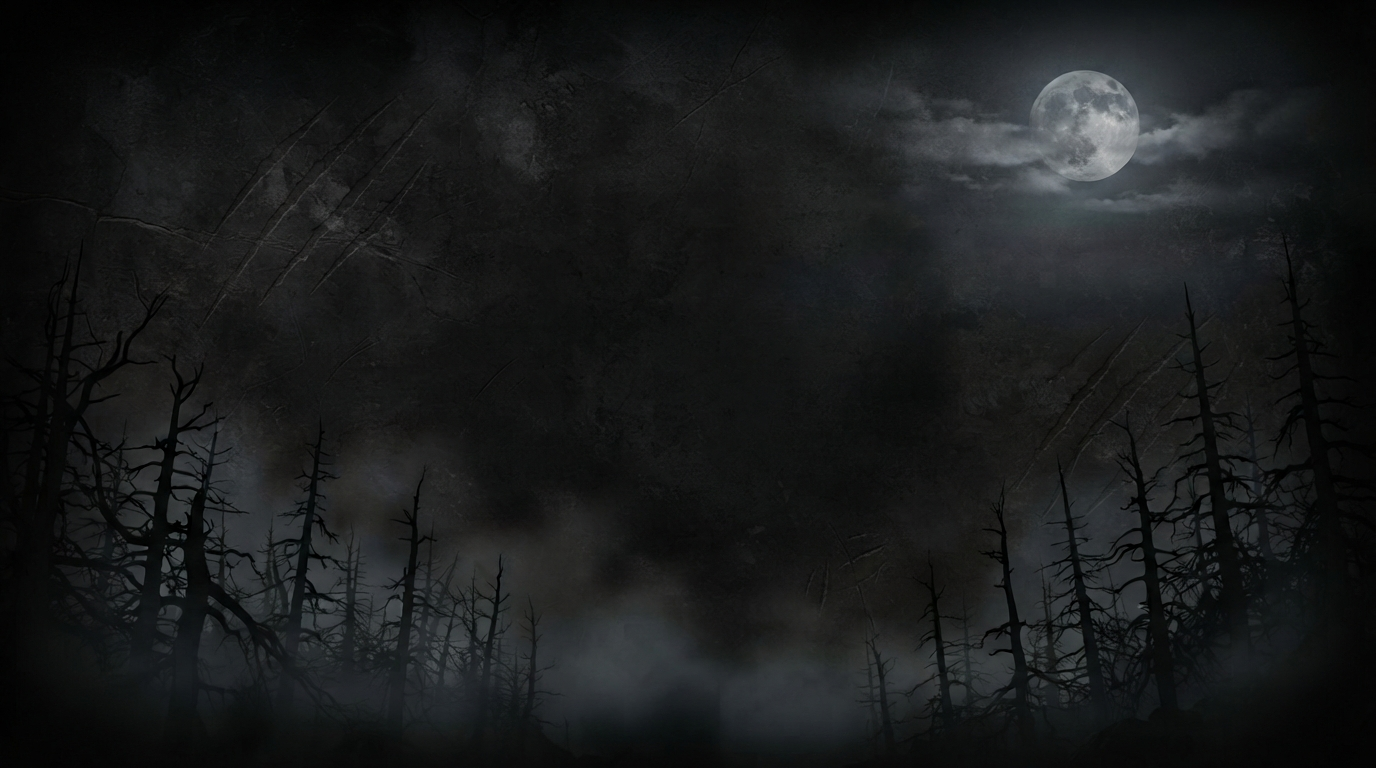
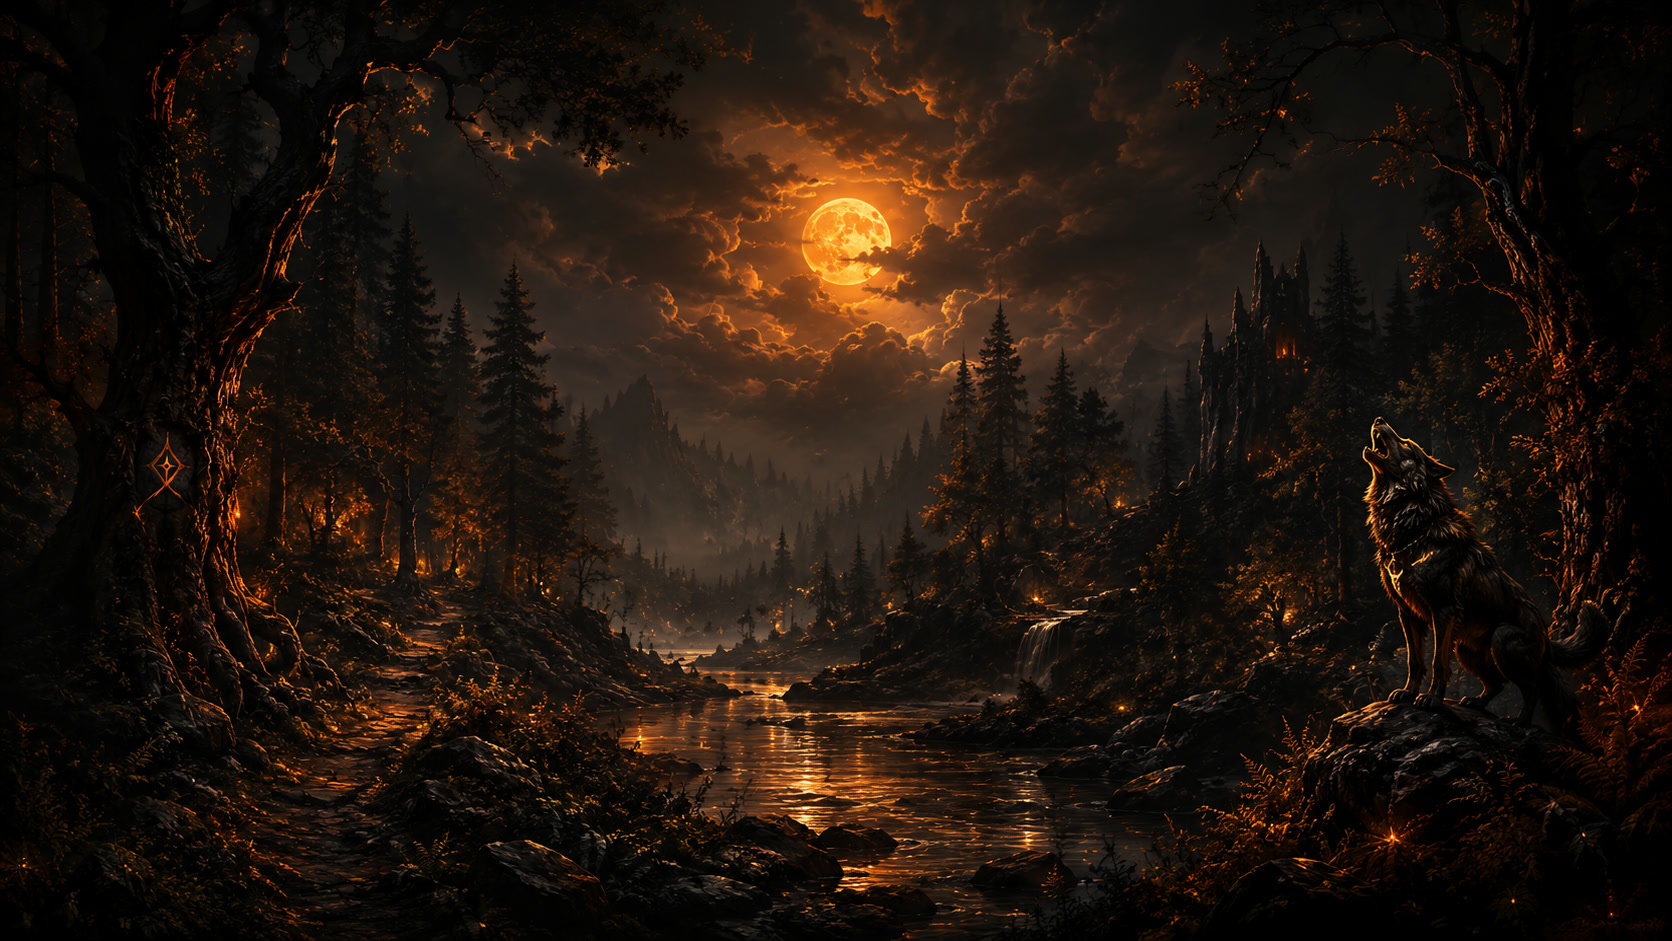
Atualiza identidade visual e corrige icones de criaturas sem arte.
Troca logo, favicon, background, retratos de linhagem e mascotes; CreatureIcon passa a fazer fallback com iniciais quando a imagem falha.

diff --git a/src/views/screens/hunt.screen.tsx b/src/views/screens/hunt.screen.tsx
@@ -12,8 +12,7 @@ import { CYCLE_OPTOUT_SECS, HUNT_TICK_MS } from "@/shared/constants/game";
 import { cn } from "@/shared/utils/class-names";
 import { formatNumber } from "@/shared/utils/format";
 import { ArtImage } from "../components/art-image";
-import { IconArt } from "../components/icon-frame";
-import { CornerAccents } from "../components/corner-accents";
+import { CreatureIcon } from "../components/creature-icon";
 import {
   loadHuntSelection,
   saveHuntSelection,
@@ -43,8 +42,6 @@ interface HuntSession {
     }
   >;
 }
-const CREATURE_ART_VERSION = "?v=3";
-
 const EMPTY_SESSION: HuntSession = {
   hunts: 0,
   wins: 0,
@@ -501,19 +498,7 @@ export function HuntScreen() {
                                 isSelected ? "bg-surface-high" : "hover:bg-surface-high/60",
                               )}
                             >
-                              <span aria-hidden="true" className="relative flex h-18 w-18 shrink-0">
-                                <span className="slot-well relative flex h-full w-full items-center justify-center overflow-hidden rounded-md border border-edge bg-base font-mono text-lg text-ink-faint">
-                                  {creature.image ? (
-                                    <IconArt
-                                      source={creature.image + CREATURE_ART_VERSION}
-                                      fit="contain"
-                                    />
-                                  ) : (
-                                    "?"
-                                  )}
-                                </span>
-                                <CornerAccents scale="icon" />
-                              </span>
+                              <CreatureIcon creature={creature} />
                               <span className="min-w-0 flex-1">
                                 <span
                                   className={cn(

diff --git a/src/views/components/creature-icon.tsx b/src/views/components/creature-icon.tsx
@@ -1,5 +1,6 @@
 "use client";
 
+import { useState } from "react";
 import { useArt } from "@/controllers/art.context";
 import type { Creature } from "@/models/entities/creature";
 import { IconArt, IconFrame, type IconSize } from "./icon-frame";
@@ -18,11 +19,16 @@ export function CreatureIcon({
   size?: IconSize;
 }) {
   const art = useArt();
-  const source = art.creatures[creature.id];
+  const source = art.creatures[creature.id] ?? creature.image;
+  const [broken, setBroken] = useState(false);
 
   return (
-    <IconFrame size={size} className={source ? undefined : "tracking-widest"}>
-      {source ? <IconArt source={source} fit="contain" glow /> : creatureInitials(creature.name)}
+    <IconFrame size={size} className={source && !broken ? undefined : "tracking-widest"}>
+      {source && !broken ? (
+        <IconArt source={source} fit="contain" glow onFail={() => setBroken(true)} />
+      ) : (
+        creatureInitials(creature.name)
+      )}
     </IconFrame>
   );
 }

diff --git a/src/views/components/icon-frame.tsx b/src/views/components/icon-frame.tsx
@@ -72,6 +72,7 @@ export function IconArt({
   badge,
   inset,
   fit = "cover",
+  onFail,
 }: {
   source: string;
   padded?: boolean;
@@ -79,6 +80,7 @@ export function IconArt({
   badge?: string;
   inset?: string;
   fit?: "cover" | "contain";
+  onFail?: () => void;
 }) {
   const [preview, setPreview] = useState<{
     left: number;
@@ -109,6 +111,7 @@ export function IconArt({
           if (img && img.complete && img.naturalWidth > 0) setLoaded(true);
         }}
         onLoad={() => setLoaded(true)}
+        onError={() => onFail?.()}
         className={cn(
           "h-full w-full cursor-zoom-in drop-shadow-[0_2px_4px_rgba(0,0,0,0.55)] transition-opacity duration-300",
           fit === "contain" ? "object-contain" : "object-cover",

diff --git a/src/views/screens/settings.screen.tsx b/src/views/screens/settings.screen.tsx
@@ -73,9 +73,9 @@ export function SettingsScreen() {
     setClearing(true);
     try {
       const urls = [
-        "/assets/ui/logo.webp?v=2",
-        "/assets/ui/logo.png?v=1",
-        "/assets/ui/background.jpg?v=1",
+        "/assets/ui/logo.webp?v=3",
+        "/assets/ui/logo.png?v=3",
+        "/assets/ui/background.jpg?v=2",
         ...Object.values(art.items),
         ...Object.values(art.attributes),
         ...Object.values(art.training),

diff --git a/src/views/layout/sidebar.tsx b/src/views/layout/sidebar.tsx
@@ -22,7 +22,7 @@ function Brand() {
       className="flex h-[74px] items-center justify-center border-b border-edge px-3"
     >
       {/* eslint-disable-next-line @next/next/no-img-element */}
-      <img src="/assets/ui/logo.webp?v=2" alt={GAME_NAME} className="h-8 w-auto" />
+      <img src="/assets/ui/logo.webp?v=3" alt={GAME_NAME} className="h-8 w-auto" />
     </Link>
   );
 }

diff --git a/src/views/screens/landing.screen.tsx b/src/views/screens/landing.screen.tsx
@@ -158,7 +158,7 @@ export function LandingScreen() {
         <div className="space-y-5">
           {/* eslint-disable-next-line @next/next/no-img-element */}
           <img
-            src="/assets/ui/logo.webp?v=2"
+            src="/assets/ui/logo.webp?v=3"
             alt={GAME_NAME}
             className="mx-auto w-72 max-w-full md:w-96"
           />

diff --git a/src/models/repositories/art.repository.ts b/src/models/repositories/art.repository.ts
@@ -22,7 +22,7 @@ const CREATURE_ROOT = "creatures";
 
 const IMAGE_EXTENSIONS = new Set([".png", ".webp", ".gif", ".jpg", ".jpeg", ".svg", ".avif"]);
 
-const ART_VERSION = "?v=27";
+const ART_VERSION = "?v=29";
 
 const ITEM_IDS = new Set(ITEMS.map((item) => item.id));
 const CREATURE_IDS = new Set(CREATURES.map((creature) => creature.id));

diff --git a/src/app/api/_lib/mail.ts b/src/app/api/_lib/mail.ts
@@ -12,7 +12,7 @@ const INK = "#f0e9e2";
 const INK_SOFT = "#ac9c8d";
 const INK_FAINT = "#79695a";
 const EMBER = "#e08d35";
-const LOGO_URL = GAME_URL + "/assets/ui/logo.png?v=1";
+const LOGO_URL = GAME_URL + "/assets/ui/logo.png?v=3";
 
 function transporter() {
   const host = process.env.SMTP_HOST;

diff --git a/src/app/globals.css b/src/app/globals.css
@@ -60,7 +60,7 @@
         rgba(7, 5, 3, 0.96) 90%,
         var(--color-base) 100%
       ),
-      url("/assets/ui/background.jpg?v=1");
+      url("/assets/ui/background.jpg?v=2");
     background-size: auto, 100% auto;
     background-position: center top;
     background-repeat: no-repeat;
